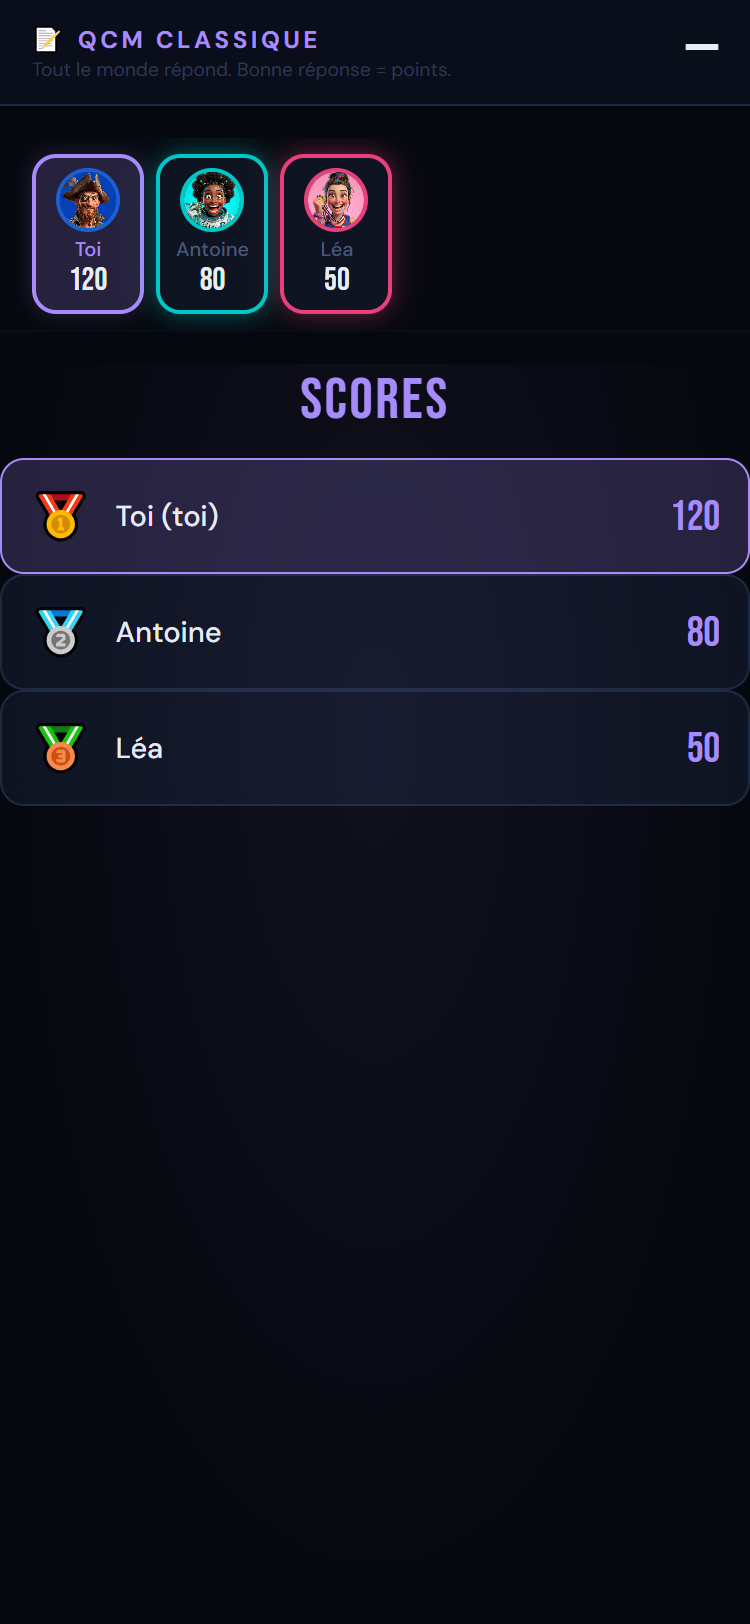
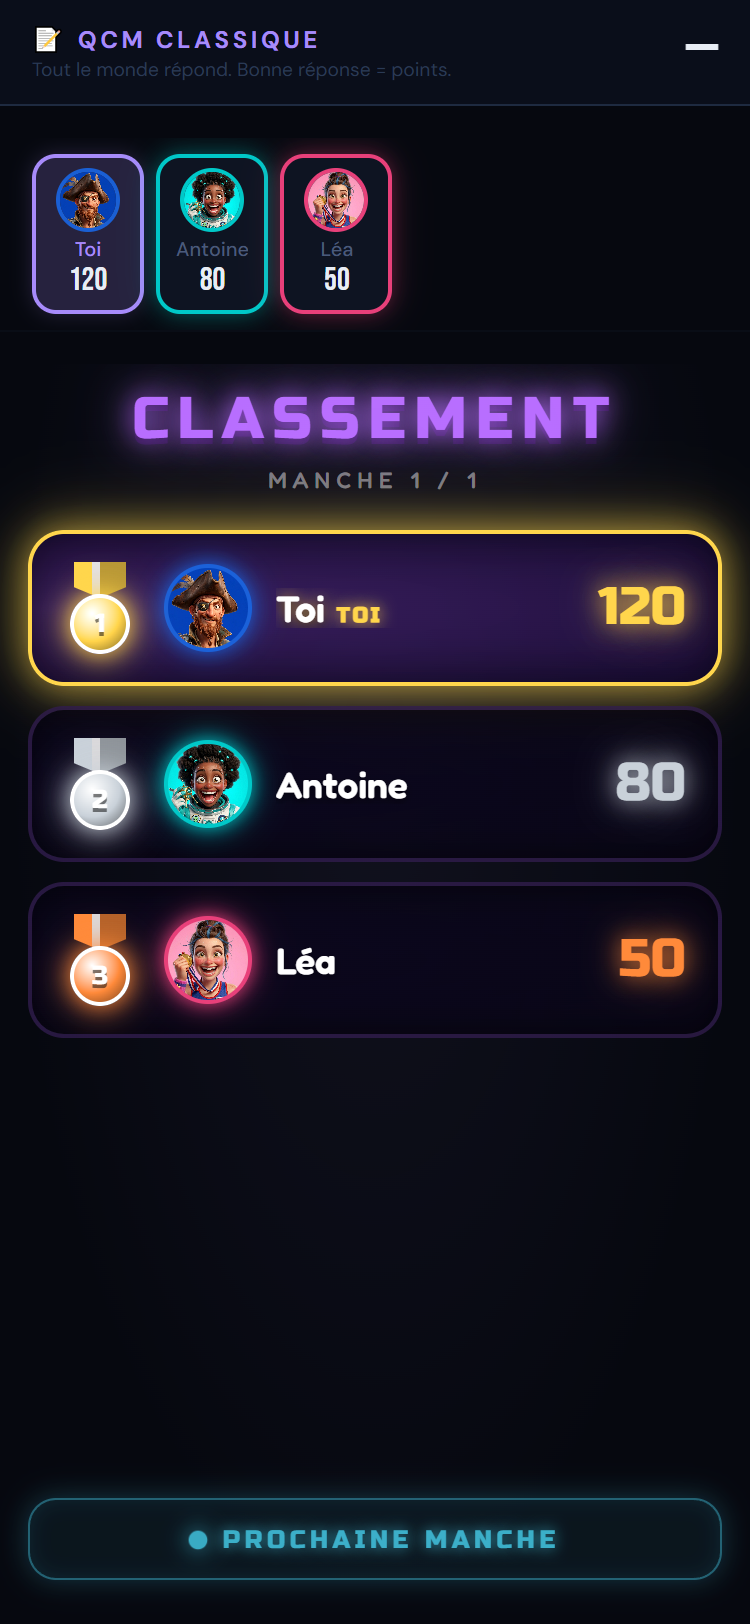
feat(scores): écran classement joueur cockpit néon
Refonte de 3f-scores (et chrono ranking) avec le design cockpit néon :
titre violet glow, médailles or/argent/bronze, avatars halo couleur du
joueur, scores en néon coloré par rang, tag TOI sur la ligne du joueur,
bandeau pulsant 'PROCHAINE MANCHE / QUESTION'.

diff --git a/player.html b/player.html
@@ -148,13 +148,34 @@
     .result-pts{font-family:'Bebas Neue',sans-serif;font-size:3rem;line-height:1}
     .result-pts.good{color:#4ade80}
     .result-pts.bad{color:#f87171}
-    #state-scoreboard{flex:1;display:flex;flex-direction:column;gap:10px;overflow-y:auto}
-    .scoreboard-title{font-family:'Bebas Neue',sans-serif;font-size:1.8rem;color:var(--accent);letter-spacing:.05em;text-align:center}
-    .scoreboard-row{display:flex;align-items:center;gap:12px;padding:12px 14px;background:#0e1422;border:1px solid #1e2a40;border-radius:12px}
-    .scoreboard-row.me{border-color:var(--accent);background:var(--accent-glow)}
-    .scoreboard-rank{font-family:'Bebas Neue',sans-serif;font-size:1.4rem;color:#2a3a55;min-width:28px}
-    .scoreboard-name{flex:1;font-size:.9rem;font-weight:500}
-    .scoreboard-pts{font-family:'Bebas Neue',sans-serif;font-size:1.3rem;color:var(--accent)}
+    /* ── Écran Scores (3f) — cockpit néon ── */
+    #state-scoreboard{flex:1;min-height:0;display:flex;flex-direction:column;overflow-y:auto}
+    .ph-scoreboard{flex:1;min-height:0;display:flex;flex-direction:column;padding:4px 14px 22px;gap:14px}
+    .ph-scoreboard-title{font-family:'Russo One',sans-serif;font-size:1.85rem;letter-spacing:.14em;color:#b96dff;text-align:center;text-shadow:0 0 14px #b96dff,0 0 26px rgba(185,109,255,.6),0 3px 0 #1a0532;margin-top:6px}
+    .ph-scoreboard-sub{font-family:'Fredoka',sans-serif;font-weight:500;font-size:.7rem;letter-spacing:.28em;color:rgba(255,255,255,.45);text-transform:uppercase;text-align:center;margin-top:-8px;margin-bottom:4px}
+    .ph-rank-list{display:flex;flex-direction:column;gap:10px}
+    .ph-rank{position:relative;display:flex;align-items:center;gap:12px;padding:14px 16px 14px 14px;border-radius:18px;background:radial-gradient(ellipse at 0% 50%,rgba(10,5,30,.85) 0%,rgba(8,4,22,.7) 100%);border:2px solid rgba(185,109,255,.18);box-shadow:inset 0 0 16px rgba(0,0,0,.5);overflow:hidden}
+    .ph-rank.me{background:radial-gradient(ellipse at 0% 50%,rgba(110,50,180,.45) 0%,rgba(40,15,80,.55) 100%);border-color:var(--rc,#b96dff);box-shadow:0 0 18px color-mix(in srgb,var(--rc,#b96dff) 60%,transparent),0 0 36px color-mix(in srgb,var(--rc,#b96dff) 35%,transparent),inset 0 0 22px rgba(0,0,0,.5);animation:ansBreathe 3.4s ease-in-out infinite}
+    .ph-rank.r1{--rc:#ffd24a}
+    .ph-rank.r2{--rc:#c9d1d9}
+    .ph-rank.r3{--rc:#ff8a3a}
+    .ph-rank-medal{width:40px;height:46px;flex-shrink:0;position:relative;display:flex;align-items:flex-end;justify-content:center}
+    .ph-rank-ribbon{position:absolute;top:0;left:50%;transform:translateX(-50%);width:26px;height:18px;background:linear-gradient(90deg,var(--rc,#b96dff) 0%,var(--rc,#b96dff) 35%,rgba(255,255,255,.85) 35%,rgba(255,255,255,.85) 50%,color-mix(in srgb,var(--rc,#b96dff) 70%,#000) 50%,color-mix(in srgb,var(--rc,#b96dff) 70%,#000) 100%);clip-path:polygon(0 0,100% 0,100% 70%,50% 100%,0 70%);filter:drop-shadow(0 2px 4px rgba(0,0,0,.6))}
+    .ph-rank-disc{width:30px;height:30px;border-radius:50%;background:radial-gradient(circle at 35% 30%,#fff 0%,var(--rc,#b96dff) 55%,color-mix(in srgb,var(--rc,#b96dff) 50%,#000) 100%);border:2px solid #fff;box-shadow:0 0 12px var(--rc,#b96dff),0 0 22px color-mix(in srgb,var(--rc,#b96dff) 60%,transparent);display:flex;align-items:center;justify-content:center;font-family:'Russo One',sans-serif;font-size:13px;color:#fff;text-shadow:0 2px 0 rgba(0,0,0,.5);position:relative;z-index:2}
+    .ph-rank-av{width:44px;height:44px;border-radius:50%;background:var(--avb,#2a2238);border:2.5px solid var(--pc,#fff);box-shadow:0 0 10px var(--pc,transparent),0 0 20px color-mix(in srgb,var(--pc,transparent) 35%,transparent);overflow:hidden;flex-shrink:0;display:block}
+    .ph-rank-av img{width:100%;height:100%;object-fit:cover;object-position:center top;display:block}
+    .ph-rank-name{flex:1;min-width:0;font-family:'Fredoka',sans-serif;font-weight:600;font-size:1.15rem;color:#fff;line-height:1.1;text-shadow:0 2px 4px rgba(0,0,0,.5);white-space:nowrap;overflow:hidden;text-overflow:ellipsis}
+    .ph-rank.me .ph-rank-name{color:#fff;text-shadow:0 0 8px color-mix(in srgb,var(--rc,#b96dff) 70%,transparent),0 2px 4px rgba(0,0,0,.6)}
+    .ph-rank-name .me-tag{font-family:'Russo One',sans-serif;font-size:.65rem;letter-spacing:.14em;color:var(--rc,#b96dff);margin-left:6px;text-shadow:0 0 8px var(--rc,#b96dff)}
+    .ph-rank-delta{display:flex;flex-direction:column;align-items:flex-end;gap:2px;flex-shrink:0}
+    .ph-rank-val{font-family:'Russo One',sans-serif;font-size:1.65rem;color:var(--rc,#b96dff);text-shadow:0 0 12px color-mix(in srgb,var(--rc,#b96dff) 80%,transparent),0 0 22px color-mix(in srgb,var(--rc,#b96dff) 40%,transparent);flex-shrink:0;line-height:1}
+    .ph-rank-gain{font-family:'Russo One',sans-serif;font-size:.7rem;letter-spacing:.04em;color:#4aff7a;text-shadow:0 0 8px rgba(74,255,122,.7);line-height:1}
+    .ph-rank-gain.zero{color:rgba(255,255,255,.35);text-shadow:none}
+    .ph-rank-gain.neg{color:#ff5470;text-shadow:0 0 8px rgba(255,84,112,.7)}
+    .ph-scoreboard-next{margin-top:auto;display:flex;align-items:center;justify-content:center;gap:8px;padding:12px 18px;border-radius:14px;background:rgba(75,224,255,.08);border:1.5px solid rgba(75,224,255,.5);box-shadow:0 0 14px rgba(75,224,255,.3),inset 0 0 10px rgba(75,224,255,.12);font-family:'Russo One',sans-serif;font-size:.78rem;letter-spacing:.18em;color:#4be0ff;text-shadow:0 0 8px #4be0ff;animation:pulseFade 2s ease-in-out infinite}
+    .ph-scoreboard-next .dot-pulse{width:8px;height:8px;border-radius:50%;background:#4be0ff;box-shadow:0 0 10px #4be0ff;animation:dotPulse 1.2s ease-in-out infinite}
+    @keyframes pulseFade{0%,100%{opacity:.55}50%{opacity:1}}
+    @keyframes dotPulse{0%,100%{transform:scale(.7);opacity:.6}50%{transform:scale(1.2);opacity:1}}
     #state-final{flex:1;display:flex;flex-direction:column;align-items:center;justify-content:center;gap:14px}
     .final-trophy{font-size:4rem}
     .final-winner{font-size:1rem;font-weight:700;text-align:center}
@@ -244,8 +265,15 @@
       <p class="result-msg" id="result-msg"></p>
     </div>
     <div id="state-scoreboard" style="display:none">
-      <p class="scoreboard-title">Scores</p>
-      <div id="scoreboard-list"></div>
+      <div class="ph-scoreboard">
+        <div class="ph-scoreboard-title">CLASSEMENT</div>
+        <div class="ph-scoreboard-sub" id="scoreboard-sub"></div>
+        <div class="ph-rank-list" id="scoreboard-list"></div>
+        <div class="ph-scoreboard-next" id="scoreboard-next">
+          <span class="dot-pulse"></span>
+          PROCHAINE MANCHE
+        </div>
+      </div>
     </div>
     <div id="state-buzzed-out" style="display:none">
       <div class="buzzed-out-icon">✗</div>
@@ -822,7 +850,7 @@ function renderState(room, gs) {
   }
   if (gs.phase === 'questionResult') { renderInterResult(room, gs); return; }
   if (gs.phase === 'scoreboard') {
-    renderScoreboard(gs);
+    renderScoreboard(room, gs);
     return;
   }
   if (gs.phase === 'final') { renderFinal(gs); return; }
@@ -1088,18 +1116,43 @@ function renderInterResult(room, gs) {
     </div>`;
 }
 
-function renderScoreboard(gs) {
+function renderScoreboard(room, gs) {
   showState('state-scoreboard');
   const players = toArr(gs.players);
-  const ranked = players.map((p,i) => ({name:p, score:gs.scores[i]||0})).sort((a,b) => b.score-a.score);
-  const medals = ['🥇','🥈','🥉'];
-  G('scoreboard-list').innerHTML = ranked.map((p, rank) => `
-    <div class="scoreboard-row ${p.name === ME ? 'me' : ''}">
-      <span class="scoreboard-rank">${medals[rank] || rank+1}</span>
-      <span class="scoreboard-name">${p.name}${p.name===ME?' (toi)':''}</span>
-      <span class="scoreboard-pts">${p.score}</span>
-    </div>
-  `).join('');
+  const ranked = players
+    .map((p,i) => ({ name:p, score:gs.scores[i]||0, avIdx: PLAYER_AVATARS[i] ?? 0 }))
+    .sort((a,b) => b.score - a.score);
+
+  const totalRounds = room && room.rounds ? room.rounds.length : 0;
+  const curRound = (gs.roundIdx ?? 0) + 1;
+  G('scoreboard-sub').textContent = totalRounds
+    ? `Manche ${Math.min(curRound,totalRounds)} / ${totalRounds}`
+    : '';
+
+  const next = G('scoreboard-next');
+  if (next) {
+    next.style.display = '';
+    next.innerHTML = `<span class="dot-pulse"></span>PROCHAINE MANCHE`;
+  }
+
+  G('scoreboard-list').innerHTML = ranked.map((p, rank) => {
+    const av = AVATARS[p.avIdx] || AVATARS[0];
+    const isMe = p.name === ME;
+    const rClass = rank < 3 ? `r${rank+1}` : '';
+    const medal = rank < 3
+      ? `<div class="ph-rank-medal"><div class="ph-rank-ribbon"></div><div class="ph-rank-disc">${rank+1}</div></div>`
+      : `<div class="ph-rank-medal"><div class="ph-rank-disc">${rank+1}</div></div>`;
+    return `
+      <div class="ph-rank ${rClass} ${isMe ? 'me' : ''}" style="--pc:${av.bg};--avb:${av.bg}">
+        ${medal}
+        <div class="ph-rank-av"><img src="JS/assets/avatars/${av.file}" alt=""></div>
+        <div class="ph-rank-name">${isMe ? 'Toi' : p.name}${isMe ? '<span class="me-tag">TOI</span>' : ''}</div>
+        <div class="ph-rank-delta">
+          <div class="ph-rank-val">${p.score}</div>
+        </div>
+      </div>
+    `;
+  }).join('');
 }
 
 function renderFinal(gs) {
@@ -1143,15 +1196,38 @@ function renderPickTarget(room, gs) {
 function renderChronoRanking(gs) {
   showState('state-scoreboard');
   const ranking = toArr(gs.chronoRanking || []);
-  const medals = ['🥇','🥈','🥉'];
-  G('scoreboard-list').innerHTML = ranking.map((entry, rank) => `
-    <div class="scoreboard-row ${entry.name === ME ? 'me' : ''}">
-      <span class="scoreboard-rank">${medals[rank] || rank+1}</span>
-      <span class="scoreboard-name">${entry.name}${entry.name===ME?' (toi)':''}</span>
-      <span class="scoreboard-pts" style="color:${entry.correct ? '#4ade80' : '#f87171'}">${entry.pts > 0 ? '+'+entry.pts : entry.pts}</span>
-    </div>
-  `).join('');
-  G('scoreboard-list').insertAdjacentHTML('afterbegin', `<div style="text-align:center;font-size:.7rem;color:#4a5a7a;margin-bottom:6px">⏱ Classement de la question</div>`);
+  const players = toArr(gs.players);
+
+  G('scoreboard-sub').textContent = '⏱ Classement de la question';
+
+  const next = G('scoreboard-next');
+  if (next) {
+    next.style.display = '';
+    next.innerHTML = `<span class="dot-pulse"></span>PROCHAINE QUESTION`;
+  }
+
+  G('scoreboard-list').innerHTML = ranking.map((entry, rank) => {
+    const pi = players.indexOf(entry.name);
+    const avIdx = pi >= 0 ? (PLAYER_AVATARS[pi] ?? 0) : 0;
+    const av = AVATARS[avIdx] || AVATARS[0];
+    const isMe = entry.name === ME;
+    const rClass = rank < 3 ? `r${rank+1}` : '';
+    const medal = rank < 3
+      ? `<div class="ph-rank-medal"><div class="ph-rank-ribbon"></div><div class="ph-rank-disc">${rank+1}</div></div>`
+      : `<div class="ph-rank-medal"><div class="ph-rank-disc">${rank+1}</div></div>`;
+    const ptsTxt = entry.pts > 0 ? '+'+entry.pts : (entry.pts || 0);
+    const gainCls = entry.pts > 0 ? '' : (entry.pts < 0 ? 'neg' : 'zero');
+    return `
+      <div class="ph-rank ${rClass} ${isMe ? 'me' : ''}" style="--pc:${av.bg};--avb:${av.bg}">
+        ${medal}
+        <div class="ph-rank-av"><img src="JS/assets/avatars/${av.file}" alt=""></div>
+        <div class="ph-rank-name">${isMe ? 'Toi' : entry.name}${isMe ? '<span class="me-tag">TOI</span>' : ''}</div>
+        <div class="ph-rank-delta">
+          <div class="ph-rank-gain ${gainCls}">${ptsTxt}</div>
+        </div>
+      </div>
+    `;
+  }).join('');
 }
 
 // ════════════════════════════════════════════
